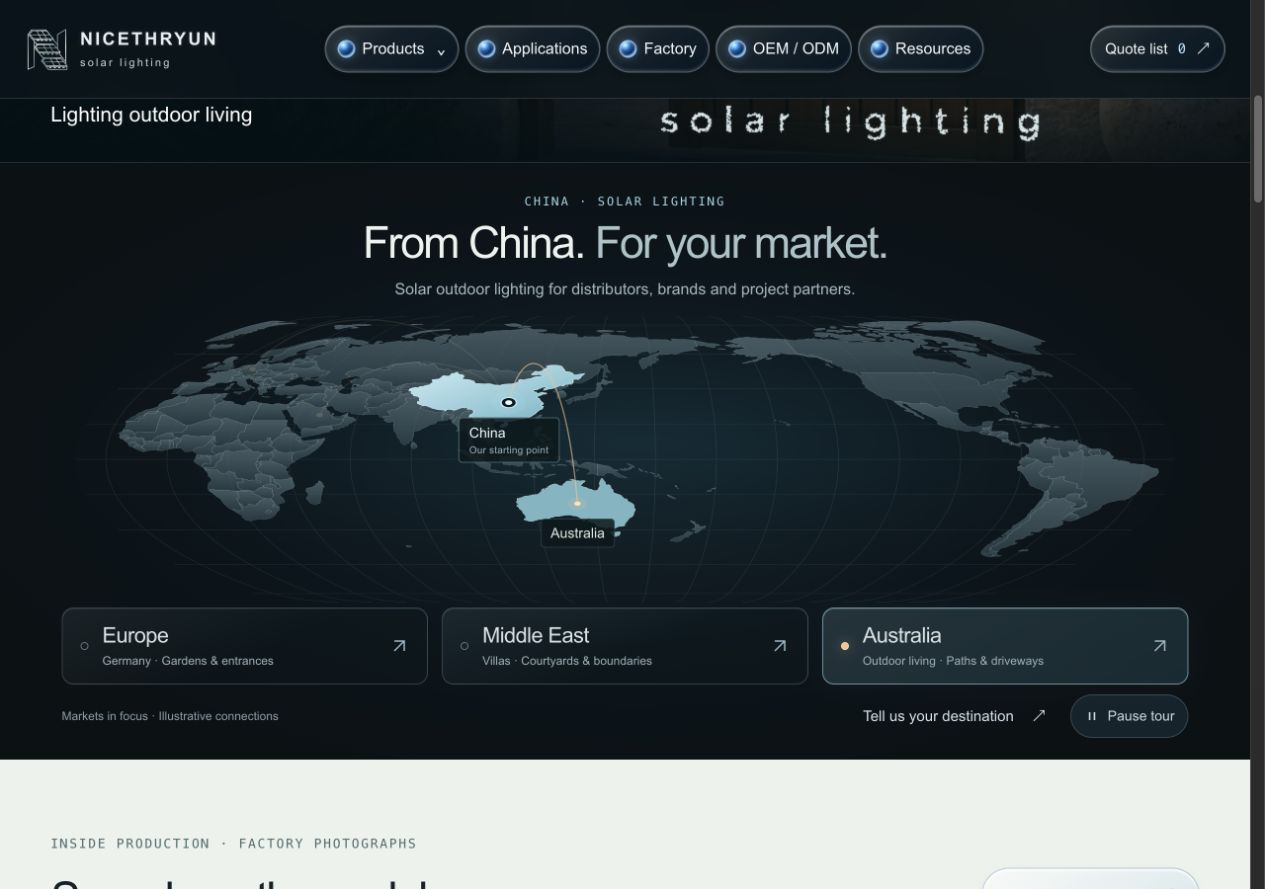
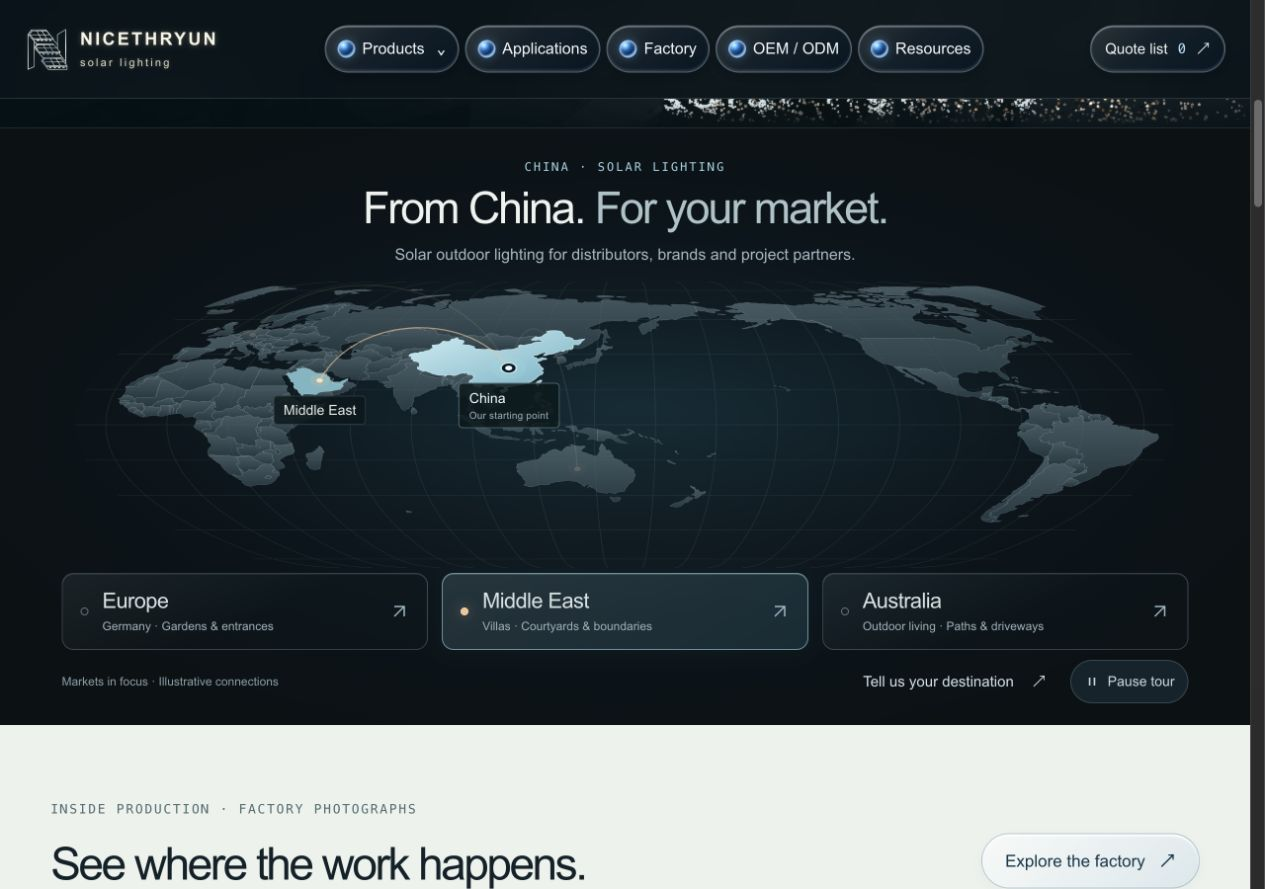
fix: keep China map highlight visually consistent

diff --git a/docs/review/global-map-source.md b/docs/review/global-map-source.md
@@ -29,6 +29,7 @@ Temporary generation libraries are `d3-geo@3.1.1` (ISC) and `shapefile@0.6.6` (B
 - Schema: `{viewBox, sphere, graticule, countries: [{id, name, path}], points: {china, europe, middleEast, australia}}`. Each point is `{x, y}`. All SVG paths are data strings, with no inline script or styles.
 - IDs are strings from `ISO_N3_EH`, preserving leading zeroes; where no three-digit ISO ID exists, `NE-` plus the Natural Earth administrative code provides a stable unique ID.
 - Highlight IDs verified: China `156`, Germany `276`, Australia `036`, Saudi Arabia `682`, United Arab Emirates `784`.
+- The China visual highlight includes Taiwan (`158`), using the same ice-blue fill and outline as the mainland. This presentation grouping does not alter the source geometry or add a separate market destination.
 - Route reference locations are schematic country/region anchors, not factory coordinates, addresses, offices or shipment destinations:
 
 | Key | Longitude, latitude | SVG x, y |

diff --git a/docs/review/global-markets.md b/docs/review/global-markets.md
@@ -21,6 +21,7 @@ This change adds a market map between the particle hero and the factory photogra
 - Browser: 390px and 320px layouts have no document horizontal overflow. Market controls have 20px primary text and exceed the 44px touch target minimum. Choosing a market pauses the tour; arrow-key selection updates the market and retains the pause.
 - Browser: after Resume, the map runs while the Resume/Pause control retains keyboard focus. A review finding that incorrectly treated the playback control as a focus blocker was fixed before handoff.
 - No production inquiry or WhatsApp message was submitted. Screenshots are browser-layout evidence; no physical iPhone/Safari performance claim is made.
+- Claude's follow-up review requested consistent China highlighting. Mainland and Taiwan geometry now share the same ice-blue treatment; the three target-market routes and source geometry are unchanged.
 
 ## Geographic source
 
